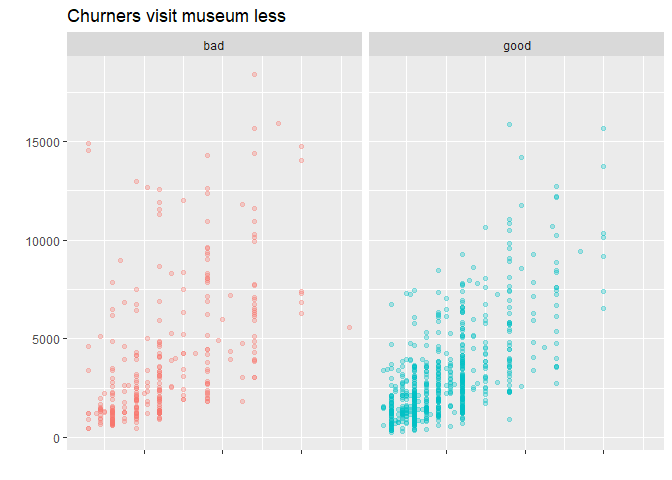
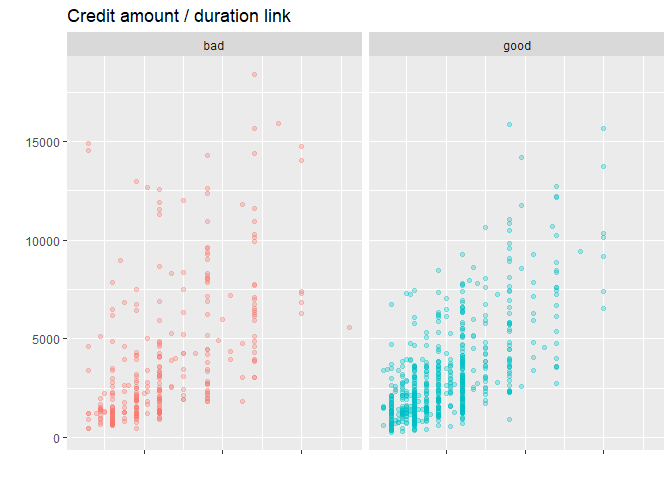
done

Changed region(s): [[0.125, 0.0, 0.4375, 0.0625]]

diff --git a/rmd.md b/rmd.md
@@ -71,6 +71,7 @@ library(klaR) #for discriminant analysis (engine)
 library(discrim) #for discriminant analysis (function)
 library(kknn) #for nearest neighbor
 library(kernlab) #for support vector machine
+library(themis)
 ```
 
 ## 3. Exporatory analysis
@@ -386,6 +387,8 @@ risk %>% missing_plot()
 
 ### b. Descriptive analysis
 
+Quantitative variables distribution :
+
 ``` r
 nums = c("Age", "Credit.amount", "Duration", "Job")
 risk[nums] %>%                    
@@ -396,6 +399,8 @@ risk[nums] %>%
 ```
 
 ![](rmd_files/figure-gfm/numerics-1.png)<!-- -->
+
+Correlation check between them
 
 ``` r
 require(corrplot)
@@ -409,7 +414,7 @@ require(corrplot)
 
 ``` r
 col <- colorRampPalette(c("#BB4444", "#EE9988", "#FFFFFF", "#77AADD", "#4477AA"))
-corrplot(cor(risk[nums]), method = "color", col = col(200),  
+cor(risk[nums]) %>%  corrplot(method = "color", col = col(200),  
          type = "upper", order = "hclust", 
          addCoef.col = "black", # Add coefficient of correlation
          tl.col = "darkblue", tl.srt = 45, #Text label color and rotation
@@ -422,44 +427,86 @@ corrplot(cor(risk[nums]), method = "color", col = col(200),
 
 ![](rmd_files/figure-gfm/corrplot-1.png)<!-- -->
 
+Credit amount and the duration of the credits are somehow correlated.
+Let’s check this link.
+
 ``` r
-bg<-ggplot(risk, aes(x= Duration, y = Credit.amount)) +
+risk %>% ggplot(aes(x= Duration, y = Credit.amount)) +
   geom_point(aes(colour = Risk), alpha=.3) + 
-  theme(axis.text.x=element_blank(), legend.position = "none") +facet_wrap(~Risk)
-bg + labs(title = "Churners visit museum less", x= "", y="")
+  theme(axis.text.x=element_blank(), legend.position = "none") +
+  facet_wrap(~Risk)+
+  labs(title = "Credit amount / duration link", x= "", y="")
 ```
 
 ![](rmd_files/figure-gfm/credit%20amount%20vs%20duration-1.png)<!-- -->
 
+Makes sense, the higher the amount is the longer the duration of the
+credit, no notable difference between bad and good customers. We can
+continue the analysis with this in mind.
+
+Since the most interesting variables (credit amount, duration) are
+correlated, one of them would be enough to do the analysis of factor
+variables.
+
+Before qualitative variable analysis, let’s take a look to the age
+distribution between good and bad customers.
+
 ``` r
-ggplot(risk)+ 
-  geom_density(aes(x = Credit.amount,fill = Risk), alpha=.5)+
-  facet_wrap(~Saving.accounts)+
-  labs(title = "Price pattern", y= "", x="Age")
+risk %>% ggplot(aes(x = Age,fill = Risk))+ 
+  geom_density( alpha=.5)+
+  #facet_wrap(~Saving.accounts)+
+  labs(title = "Age distribution", y= "", x="Age")
 ```
 
 ![](rmd_files/figure-gfm/credit%20amount-1.png)<!-- -->
 
+Qualitative variables analysis :
+
+As said before, the most interesting variables to use for this is credit
+amount, it will be used as y.axis for each of the following figure.
+
+-   Housing
+
 ``` r
-ggplot(data = risk,aes(x= Saving.accounts, y =Credit.amount, color = Risk)) + 
+risk %>% ggplot(aes(x= Housing, y =Credit.amount, color = Risk)) + 
   geom_boxplot(size=1, alpha = .3) +
   scale_x_discrete() +
-  scale_y_continuous()+ geom_jitter(aes(color=Risk), alpha=.2)
+  scale_y_continuous()+ 
+  geom_jitter(aes(color=Risk), alpha=.2)
+```
+
+![](rmd_files/figure-gfm/housing-1.png)<!-- -->
+
+No noticeable link.
+
+-   Saving account
+
+``` r
+risk %>% ggplot(aes(x= Saving.accounts, y =Credit.amount, color = Risk)) + 
+  geom_boxplot(size=1, alpha = .3) +
+  scale_x_discrete() +
+  scale_y_continuous()+ 
+  geom_jitter(aes(color=Risk), alpha=.2)
 ```
 
 ![](rmd_files/figure-gfm/saving%20accounts-1.png)<!-- -->
 
+-   Checking account
+
 ``` r
-ggplot(data = risk,aes(x= Checking.account, y =Credit.amount, color = Risk)) + 
+risk %>% ggplot(aes(x= Checking.account, y =Credit.amount, color = Risk)) +
   geom_boxplot(size=1, alpha = .3) +
   scale_x_discrete() +
-  scale_y_continuous()+ geom_jitter(aes(color=Risk), alpha=.2)
+  scale_y_continuous()+ 
+  geom_jitter(aes(color=Risk), alpha=.2)
 ```
 
 ![](rmd_files/figure-gfm/checking%20account-1.png)<!-- -->
 
+-   Purpose
+
 ``` r
-ggplot(data = risk,aes(x= Purpose, y =Credit.amount, color = Risk)) + 
+risk %>% ggplot(aes(x= Purpose, y =Credit.amount, color = Risk)) + 
   geom_boxplot(size=1, alpha = .3) +
   scale_x_discrete() +
   scale_y_continuous()+ geom_jitter(aes(color=Risk), alpha=.2)
@@ -468,6 +515,8 @@ ggplot(data = risk,aes(x= Purpose, y =Credit.amount, color = Risk)) +
 ![](rmd_files/figure-gfm/purpose-1.png)<!-- -->
 
 ## 4. Prepocessing
+
+### a. Split the data (rsample)
 
 ``` r
 set.seed(1)
@@ -485,10 +534,31 @@ risk_test <- risk_split %>%
 set.seed(2)
 risk_folds <- vfold_cv(data =  risk_training,
                        #number of partition
-                       v = 3,
+                       v = 5,
                        #outcome variable
                        strata = Risk)
 ```
+
+### b. Feature engineering (recipes)
+
+Here is a little description of each function and the reason for them:
+
+-   step\_relevel : used to change the level of the binary outcome
+    variable. By default, when importing the data, the event level is
+    set to bad. Which is not really a problem but compromised the
+    interpretation of the metrics, thus the change.
+
+-   step\_unknown : used to set na values to a new level in the
+    concerned factor.
+
+-   step\_normalize : self explanatory name.
+
+-   step\_dummy : one-hot encoding dropping the reference level.
+
+-   step\_smote : data augmentation for the outcome : the rare event
+    level, which is the level ‘bad’. The data is augmented so that there
+    are the same number of each outcome in the training dataset before
+    modeling.
 
 ``` r
 risk_rec <- recipe(Risk ~., data = risk_training) %>% 
@@ -502,16 +572,36 @@ risk_rec <- recipe(Risk ~., data = risk_training) %>%
   step_normalize(all_numeric()) %>% 
   
   #turn all the factors into dummies and delete the reference level
-  step_dummy(all_nominal(), -all_outcomes())
+  step_dummy(all_nominal(), -all_outcomes()) %>% 
+  step_smote(Risk)
 ```
+
+### c. Model specification (parsnip, tune)
+
+For each model, the hyperparameters will be tuned using the ‘tune’
+package and engines are declared to be used to fit the models.
+
+-   an elastic net logistic regression (penalty and mixture stand for
+    respectively L2 and L1 penalties)
+
+-   a regularized discriminant analysis, the covariance is to be tuned
+    so the model will neither be an LDA nor a QDA.
+
+-   a decision tree.
+
+-   a random forest, with mtry = number of sampled predictors.
+
+-   a k nearest neighbor model.
+
+-   a rbf kernel svm has been chosed as it is a good default model.
 
 ``` r
 logit_tuned <- logistic_reg(penalty = tune(), 
-                                 mixture = tune()) %>%
+                            mixture = tune()) %>%
   set_engine('glmnet') %>%
   set_mode('classification')
 
-#regularised discriminant analysis : a compromise between qda and lda by setting the hyperparameter penalty
+#regularised discriminant analysis 
 
 rda_tuned <- discrim_regularized(frac_common_cov = tune(),
                                  frac_identity = tune()) %>% 
@@ -540,12 +630,17 @@ knn_tuned <- nearest_neighbor(neighbors = tune(),
   set_mode('classification')
 
 #support vector machine
-svm_poly_tuned <- svm_poly(cost = tune(),
-                          degree = tune(),
-                          scale_factor = tune()) %>% 
+svm_poly_tuned <- svm_rbf(cost = tune(),
+                          rbf_sigma = tune()) %>% 
   set_engine('kernlab') %>% 
   set_mode('classification')
 ```
+
+## 5. Modeling
+
+### a. Create a Workflowset
+
+-   Worklowset parameters :
 
 ``` r
 #make a list out of the models
@@ -566,6 +661,8 @@ risk_wflow_set <- workflow_set(preproc = list(rec = risk_rec),
 risk_metrics <- metric_set(accuracy, sens, spec, roc_auc)
 ```
 
+-   Tune the models :
+
 ``` r
 wflow_set_grid_results <- risk_wflow_set %>% 
   workflow_map(
@@ -585,51 +682,59 @@ wflow_set_grid_results <- risk_wflow_set %>%
 
     ## Warning: package 'vctrs' was built under R version 4.0.5
 
-    ## v 1 of 6 tuning:     rec_logit (12.8s)
+    ## v 1 of 6 tuning:     rec_logit (22.3s)
 
     ## i 2 of 6 tuning:     rec_rda
 
-    ## v 2 of 6 tuning:     rec_rda (15.2s)
+    ## v 2 of 6 tuning:     rec_rda (23.6s)
 
     ## i 3 of 6 tuning:     rec_dt
 
-    ## v 3 of 6 tuning:     rec_dt (13.5s)
+    ## v 3 of 6 tuning:     rec_dt (21.7s)
 
     ## i 4 of 6 tuning:     rec_rf
 
     ## i Creating pre-processing data to finalize unknown parameter: mtry
 
-    ## v 4 of 6 tuning:     rec_rf (39.2s)
+    ## v 4 of 6 tuning:     rec_rf (1m 34.3s)
 
     ## i 5 of 6 tuning:     rec_knn
 
-    ## v 5 of 6 tuning:     rec_knn (26.8s)
+    ## v 5 of 6 tuning:     rec_knn (1m 9.5s)
 
     ## i 6 of 6 tuning:     rec_svm
 
-    ## v 6 of 6 tuning:     rec_svm (15.9s)
+    ## v 6 of 6 tuning:     rec_svm (40.4s)
+
+### b. Model screening
 
 ``` r
 #rank the models by the area under the roc curve
 wflow_set_grid_results %>% 
-  rank_results(rank_metric = "roc_auc") %>% 
-  filter(.metric == "roc_auc")
+  rank_results(rank_metric = "accuracy") %>% 
+  filter(.metric == "accuracy" | .metric == "sens")
 ```
 
-    ## # A tibble: 60 x 9
-    ##    wflow_id  .config     .metric  mean std_err     n preprocessor model     rank
-    ##    <chr>     <chr>       <chr>   <dbl>   <dbl> <int> <chr>        <chr>    <int>
-    ##  1 rec_rda   Preprocess~ roc_auc 0.748  0.0249     3 recipe       discrim~     1
-    ##  2 rec_rf    Preprocess~ roc_auc 0.748  0.0218     3 recipe       rand_fo~     2
-    ##  3 rec_rda   Preprocess~ roc_auc 0.747  0.0257     3 recipe       discrim~     3
-    ##  4 rec_rf    Preprocess~ roc_auc 0.747  0.0208     3 recipe       rand_fo~     4
-    ##  5 rec_rf    Preprocess~ roc_auc 0.745  0.0169     3 recipe       rand_fo~     5
-    ##  6 rec_rf    Preprocess~ roc_auc 0.744  0.0228     3 recipe       rand_fo~     6
-    ##  7 rec_rf    Preprocess~ roc_auc 0.744  0.0153     3 recipe       rand_fo~     7
-    ##  8 rec_logit Preprocess~ roc_auc 0.743  0.0245     3 recipe       logisti~     8
-    ##  9 rec_logit Preprocess~ roc_auc 0.742  0.0249     3 recipe       logisti~     9
-    ## 10 rec_rf    Preprocess~ roc_auc 0.742  0.0187     3 recipe       rand_fo~    10
-    ## # ... with 50 more rows
+    ## # A tibble: 120 x 9
+    ##    wflow_id .config       .metric  mean std_err     n preprocessor model    rank
+    ##    <chr>    <chr>         <chr>   <dbl>   <dbl> <int> <chr>        <chr>   <int>
+    ##  1 rec_rf   Preprocessor~ accura~ 0.744 0.0105      5 recipe       rand_f~     1
+    ##  2 rec_rf   Preprocessor~ sens    0.796 0.0111      5 recipe       rand_f~     1
+    ##  3 rec_rf   Preprocessor~ accura~ 0.741 0.0125      5 recipe       rand_f~     2
+    ##  4 rec_rf   Preprocessor~ sens    0.821 0.0152      5 recipe       rand_f~     2
+    ##  5 rec_rf   Preprocessor~ accura~ 0.74  0.0114      5 recipe       rand_f~     3
+    ##  6 rec_rf   Preprocessor~ sens    0.810 0.00797     5 recipe       rand_f~     3
+    ##  7 rec_rf   Preprocessor~ accura~ 0.739 0.00490     5 recipe       rand_f~     4
+    ##  8 rec_rf   Preprocessor~ sens    0.787 0.00646     5 recipe       rand_f~     4
+    ##  9 rec_rf   Preprocessor~ accura~ 0.733 0.00298     5 recipe       rand_f~     5
+    ## 10 rec_rf   Preprocessor~ sens    0.785 0.00883     5 recipe       rand_f~     5
+    ## # ... with 110 more rows
+
+Random forest models have the best accuracies and sensitivities. Which
+is good, because we only want to give credit to the good customers.
+
+Since accuracy is not the best metric to compare models, let’s check the
+area under the roc curve :
 
 ``` r
 #plot the performance of each model by rank
@@ -639,6 +744,10 @@ wflow_set_grid_results %>%
 ```
 
 ![](rmd_files/figure-gfm/rank%20plot-1.png)<!-- -->
+
+This confirms our results, let’s take the best random forest model then.
+
+### c. Finalize
 
 ``` r
 #take the best result
@@ -653,6 +762,8 @@ final_fit <- wflow_set_grid_results %>%
   last_fit(risk_split)
 ```
 
+-   Best model metrics with test set
+
 ``` r
 final_fit %>% collect_metrics()
 ```
@@ -660,8 +771,10 @@ final_fit %>% collect_metrics()
     ## # A tibble: 2 x 4
     ##   .metric  .estimator .estimate .config             
     ##   <chr>    <chr>          <dbl> <chr>               
-    ## 1 accuracy binary         0.732 Preprocessor1_Model1
-    ## 2 roc_auc  binary         0.767 Preprocessor1_Model1
+    ## 1 accuracy binary         0.708 Preprocessor1_Model1
+    ## 2 roc_auc  binary         0.758 Preprocessor1_Model1
+
+-   Confusion matrix
 
 ``` r
 risk_predictions <- final_fit %>% collect_predictions()
@@ -672,3 +785,16 @@ conf_mat(risk_predictions,
 ```
 
 ![](rmd_files/figure-gfm/heatmap-1.png)<!-- -->
+
+Step\_smote helped to has this better result, where we have a better
+sensitivity of the model and an acceptable specificity.
+
+Finally, the roc curve :
+
+``` r
+risk_predictions %>%
+  roc_curve(truth = Risk, .pred_good) %>% 
+  autoplot()
+```
+
+![](rmd_files/figure-gfm/roc%20curve-1.png)<!-- -->
